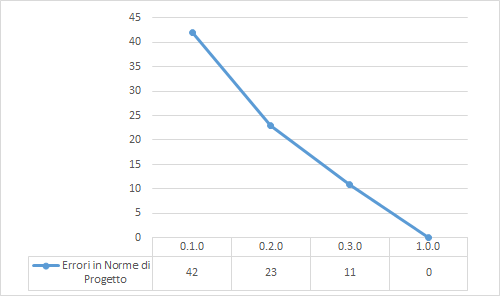
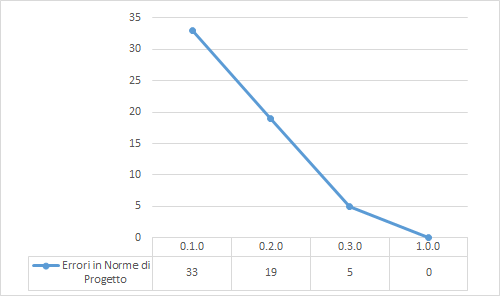
docs: verifica errori lessicali, modifica sezione 6 e 5

diff --git a/esterni/piano-di-qualifica/components/7-valutazioni-per-il-miglioramento.tex b/esterni/piano-di-qualifica/components/7-valutazioni-per-il-miglioramento.tex
@@ -10,7 +10,7 @@ I principali problemi riscontrati riguardano:
     \item \textbf{Gli strumenti di lavoro}: problemi relativi alla scelta e all'utilizzo degli strumenti.
 \end{itemize}
 La rilevazione di questi errori e le relative soluzioni sono state rese possibili grazie alla buona comunicazione all'interno del gruppo, migliorata durante il tempo di svolgimento della prima parte del progetto.
-Non essendoci una figura esterna al gruppo in grado di fornire una valutazione oggettiva e che possa gestirlo si è resa fondamentale l'autovalutazione di ciascun componente del gruppo e la totale liberta di esprimere le proprie difficoltà e di collaborare a trovare una soluzione comune per risolvere tali problematiche.
+Non essendoci una figura esterna al gruppo in grado di fornire una valutazione oggettiva e che possa gestirlo si è resa fondamentale l'autovalutazione di ciascun componente del gruppo e la totale libertà di esprimere le proprie difficoltà e di collaborare a trovare una soluzione comune per risolvere tali problematiche.
 Di seguito verranno trattati i problemi attualmente riscontrati, questa sezione verrà costantemente aggiornata nel caso si dovessero riscontrare ulteriori problematiche e attività di miglioramento necessarie per la maturazione del team.
 
 \subsection{Valutazioni sull’organizzazione}
@@ -19,9 +19,9 @@ Vengono definiti i problemi sull'organizzazione del team, punto fondamentale per
 
 \subsubsection{Incontri di gruppo}
 \label{sub:incontri_di_gruppo}
-Data la situazione creatasi le prime comunicazioni all'interno del gruppo sono risultate complicate e confusionarie data l'impossibilità di un incontro dal vivo con tutti i componenti del gruppo.
+Data la situazione creatasi le prime comunicazioni all'interno del gruppo sono risultate complicate e confusionarie causando l'impossibilità di un incontro dal vivo con tutti i componenti del gruppo.
 Se da una parte gli impegni di molti componenti si erano ridotti da un'altra il non poter avere un incontro dal vivo tra i componenti ha causato problematiche nell'organizzazione del gruppo, dato che era necessario trovare un nuovo metodo per comunicare e accordarsi riuscendo comunque ad accumunare gli impegni di tutti per poter riunire tutto il gruppo.
-Queste difficoltà sono emerse solo nel periodo iniziale dello svolgimento del lavoro e sono state risolte in breve tempo mediante l'utilizzo di diversi software di videochiama di gruppo per regolarizzare gli incontri interni.
+Queste difficoltà sono emerse solo nel periodo iniziale dello svolgimento del lavoro e sono state risolte in breve tempo mediante l'utilizzo di diversi software di videochiamata di gruppo per regolarizzare gli incontri interni.
 Gli strumenti utilizzati per risolvere queste problematiche sono stati scelti di comune accordo e la documentazione relativa ad essi è consultabile nelle \textsc{Norme di Progetto}.
 
 \subsubsection{Comunicazioni del gruppo}
@@ -31,8 +31,8 @@ Si è quindi deciso che oltre all'utilizzo di \glossario{Telegram} come strument
 
 \subsubsection{Comunicazioni con il proponente}
 \label{sub:comunicazione_con_il_proponente}
-L'ultima problematica venuto a crearsi a cause della situazione creatasi è stata la difficolta iniziale di come comunicare con il proponente per ottenere informazioni riguardo il Capitolato e per avere un dialogo costante con esso.
-Il problema è stato risolto in breve termine, decidendo di utilizzare le email per la comunicazione con il proponente e di utilizzare:
+L'ultima problematica venutasi a creare a causa della situazione creatasi è stata la difficolta iniziale di come comunicare con il proponente per ottenere informazioni riguardo il Capitolato e per avere un dialogo costante con esso.
+Il problema è stato risolto in breve tempo, decidendo di utilizzare le email per la comunicazione con il proponente e di utilizzare:
 \begin{itemize}
     \item \textbf{\glossario{Skype}}: per le comunicazioni in videochiamata più formali tra il gruppo e l'azienda;
     \item \textbf{\glossario{Microsoft Teams}}: per la formazione specifica dei membri del gruppo, da parte del Dr.Piccoli, sugli argomenti inerenti al capitolato.
@@ -44,7 +44,7 @@ Vengono definiti i problemi relativi alla suddivisione dei ruoli nel gruppo e su
 %%% da finire %%%
 \subsubsection{Verificatore}
 \label{sub:verificatore}
-Data l'inesperienza da parte dei Verificatori non tutti gli errori presenti nei documenti sono stati immediatamente individuati il che ha comportato la presenza di contraddizioni di contenuto e struttura rispetto tra i diversi documenti.
+Data l'inesperienza da parte dei Verificatori non tutti gli errori presenti nei documenti sono stati immediatamente individuati il che ha comportato la presenza di contraddizioni di contenuto e struttura tra i diversi documenti.
 Come soluzione il gruppo si è impegnato a dedicare una parte del tempo per analizzare meglio insieme i contenuti dei singoli documenti, in modo da renderli adeguati alle norme utilizzate e soprattutto evitando contraddizioni tra i diversi documenti.
 
 \subsection{Valutazioni sugli strumenti}
@@ -62,7 +62,7 @@ Per risolvere tale problema i membri del gruppo che avevano una maggiore conosce
 
 \subsubsection{Software di comunicazione con il proponente}
 \label{sub:latex}
-Come specificato nelle \textsc{Norme di Progetto} il software di comunicazione più usato con il proponente è Skype con il quale però sono stati riscontrati problemi nell'utilizzo sia da parte del team che da parte del proponente, oltra ad altri problemi vari come la pessima qualità streaming che per adesso il servizio offre.
+Come specificato nelle \textsc{Norme di Progetto} il software di comunicazione più usato con il proponente è Skype con il quale però sono stati riscontrati problemi nell'utilizzo sia da parte del team che da parte del proponente, oltre ad altri problemi vari come la pessima qualità streaming che per adesso il servizio offre.
 A questo problema non vi è una vera e propria soluzione soddisfacente, il gruppo e il proponente si impegnano a capire meglio come gestire le chiamate col software, mentre per quanto riguarda la parte relativa alla qualità dello streaming non vi è soluzione immediata, questo problema però non influenza più di tanto la comunicazione e la comprensione dei colloqui.
 
 \subsection{Valutazioni sulle verifiche}
@@ -77,7 +77,7 @@ Nelle verifiche e nelle revisioni finali di ogni documento i problemi maggiormen
     \item Errori riguardanti le norme;
     \item Periodi di frasi troppo verbosi.
 \end{itemize}
-Per trovare più facilmente e risolvere gli errori lessicali/,ortografici e sintattici il team ha adottato come strumento un'estensione per \glossario{Visual Studio Code} che aiutala la segnalazione di questi errori molto comuni.
+Per trovare più facilmente e risolvere gli errori lessicali,ortografici e sintattici il team ha adottato come strumento un'estensione per \glossario{Visual Studio Code} che aiuta la segnalazione di questi errori molto comuni.
 Gli errori riguardanti le norme sono stati commessi soprattutto nelle prime fasi di stesura dei documenti e sono stati subito corretti nella prima parte di verifica per ogni documento quando tutto il gruppo ha appreso meglio le norme interne imposte.
 Per i periodi troppo verbosi è stato utile l'utilizzo dell'Indice di Gulpease, ma soprattutto una buona comunicazione all'interno del gruppo per rimediare a frasi troppo lunghe.
 

diff --git a/esterni/piano-di-qualifica/components/3-qualita-di-prodotto.tex b/esterni/piano-di-qualifica/components/3-qualita-di-prodotto.tex
@@ -59,7 +59,7 @@ Il prodotto deve quindi fornire funzioni adeguate ed affidabili che siano in gra
     \item \textbf{QoPD001 Rispetto dell'implementazione funzionale - [Adeguatezza]}: realizzare lo stesso numero di funzioni ricavate dall'analisi iniziale;
         \begin{itemize}
             \item \textbf{Metrica di riferimento}: MoPD001;
-            \item \textbf{Valore accettabile}: discostamento, in negati o in positivo, di al più 2 funzioni;
+            \item \textbf{Valore accettabile}: discostamento, in negativo o in positivo, di al più 2 funzioni;
             \item \textbf{Valore desiderabile}: 0.
         \end{itemize}
     \item \textbf{QoPD002 Rispetto delle interfacce - [Interoperabilità]}: realizzare le interfacce del progetto come preventivato nell'analisi iniziale.
@@ -187,7 +187,7 @@ La portabilità è capacità del prodotto software di essere trasferito e implem
 \label{sub:obiettivi}
 \begin{itemize}
     \item \textbf{QoPD009 Supporto ai diversi browser - [Adattabilità]}: riuscire ad adattare l'applicazione web di addestramento ai diversi browser e alle diverse versioni di essi per eseguire tutte le funzioni del prodotto.
-        \\ In questo caso non ci saranno valori accettabili o desiderabili ma due diverse liste di browser da supportare, la lista minima accettabile con il numero minimo di browser da supportare e la lista minima desiderabile con i browser minimi da supportare per considera l'obiettivo raggiunto con la qualità desiderabile.
+        \\ In questo caso non ci saranno valori accettabili o desiderabili ma due diverse liste di browser da supportare, la lista minima accettabile con il numero minimo di browser da supportare e la lista minima desiderabile con i browser minimi da supportare per considerare l'obiettivo raggiunto con la qualità desiderabile.
         Ogni Browser viene identificato attraverso la dicitura: \textbf{(nome browser,versione browser)}.
         \begin{itemize}
             \item \textbf{Metrica di riferimento}: MoPD009;
@@ -248,7 +248,7 @@ Per ogni obiettivo viene indicato:
     Obiettivo &
       Metrica &
       Valore accettabile &
-      Valore desiderabili \\ \hline
+      Valore desiderabile \\ \hline
     \endhead
     %
     \begin{tabular}[c]{@{}c@{}}QoPD001 Rispetto\\ dell’implementazione funzionale - \\ {[}Adeguatezza{]}\end{tabular} &
@@ -276,7 +276,7 @@ Per ogni obiettivo viene indicato:
         Obiettivo &
           Metrica &
           Valore accettabile &
-          Valore desiderabili \\ \hline
+          Valore desiderabile \\ \hline
         \endhead
         %
         \begin{tabular}[c]{@{}c@{}}QoPD003 Test completi\\ sul codice -\\ {[}Maturità{]}\end{tabular} &
@@ -304,7 +304,7 @@ Per ogni obiettivo viene indicato:
         Obiettivo &
           Metrica &
           Valore accettabile &
-          Valore desiderabili \\ \hline
+          Valore desiderabile \\ \hline
         \endhead
         %
         \begin{tabular}[c]{@{}c@{}}QoPD005 Chiarezza\\ del comportamento -\\ {[}Comprensibilità{]}\end{tabular} &
@@ -333,7 +333,7 @@ Per ogni obiettivo viene indicato:
         Obiettivo &
           Metrica &
           Valore accettabile &
-          Valore desiderabili \\ \hline
+          Valore desiderabile \\ \hline
         \endhead
         %
         \begin{tabular}[c]{@{}c@{}}QoPD007 Velocità\\ di esecuzione -\\ {[}Comportamento temporale{]}\end{tabular} &
@@ -355,7 +355,7 @@ Per ogni obiettivo viene indicato:
         Obiettivo &
           Metrica &
           Valore accettabile &
-          Valore desiderabili \\ \hline
+          Valore desiderabile \\ \hline
         \endhead
         %
         \begin{tabular}[c]{@{}c@{}}QoPD08 Comprensione\\ del codice -\\ {[}Modifica{]}\end{tabular} &
@@ -363,7 +363,7 @@ Per ogni obiettivo viene indicato:
           10\% o più &
           20\% o più \\
         \multicolumn{1}{l}{Descrizione:} &
-          \multicolumn{3}{l}{\begin{tabular}[c]{@{}l@{}}Per una maggior chiarezza, comprensione e per facilitare eventuali modifiche nel\\ corso del ciclo di vita del prodotto, verranno inseriti dei commenti significati in\\ modo da comprendere cosa fa il codice commentato. Il numero di righe di commento\\ dovrà essere almeno il 10\% del codice totale.\end{tabular}} \\ \hline
+          \multicolumn{3}{l}{\begin{tabular}[c]{@{}l@{}}Per una maggior chiarezza, comprensione e per facilitare eventuali modifiche nel\\ corso del ciclo di vita del prodotto, verranno inseriti dei commenti significativi in\\ modo da comprendere cosa fa il codice commentato. Il numero di righe di commento\\ dovrà essere almeno il 10\% del codice totale.\end{tabular}} \\ \hline
         \caption{Obiettivi e metriche di qualità per la manutenibilità}
         \label{tab:my-table}\\
         \end{longtable}
@@ -377,7 +377,7 @@ Per ogni obiettivo viene indicato:
         Obiettivo &
           Metrica &
           Valore accettabile &
-          Valore desiderabili \\ \hline
+          Valore desiderabile \\ \hline
         \endhead
         %
         \begin{tabular}[c]{@{}c@{}}QoPD009 Supporto ai\\ diversi browser -\\ {[}Adattabilità{]}\end{tabular} &
@@ -400,7 +400,7 @@ Per ogni obiettivo viene indicato:
         Obiettivo &
           Metrica &
           Valore accettabile &
-          Valore desiderabili \\ \hline
+          Valore desiderabile \\ \hline
         \endhead
         %
         \begin{tabular}[c]{@{}c@{}}QoPD010 Leggibilità \\ del testo -\\ {[}Documentazione{]}\end{tabular} &
@@ -414,7 +414,7 @@ Per ogni obiettivo viene indicato:
           0 &
           0 \\
         \multicolumn{1}{l}{Descrizione:} &
-          \multicolumn{3}{l}{\begin{tabular}[c]{@{}l@{}}All'interno dei documenti non dovranno esserci errori \\ ortografici, di sintassi o di mancanza del rispetto delle \\  norme interne, ciò comporterebbe a una minor comprensione del\\ testo e difficoltà nel capire le parti essenziali dei documenti.\end{tabular}}\\ \hline
+          \multicolumn{3}{l}{\begin{tabular}[c]{@{}l@{}}All'interno dei documenti non dovranno esserci errori \\ ortografici, di sintassi o di mancanza del rispetto delle \\  norme interne, ciò comporterebbe una minor comprensione del\\ testo e difficoltà nel capire le parti essenziali dei documenti.\end{tabular}}\\ \hline
         \caption{Obiettivi e metriche di qualità per la documentazione}
         \label{tab:my-table}\\
         \end{longtable}

diff --git a/esterni/piano-di-qualifica/components/5-standard-di-qualita.tex b/esterni/piano-di-qualifica/components/5-standard-di-qualita.tex
@@ -24,7 +24,7 @@ Nelle seguenti sezioni verranno descritte le caratteristiche principali dei docu
 
 \subsubsection{Concetti iniziali}
 \label{sub:concetti_iniziali}
-Lo scopo del documento è fornite informazioni generali sulla valutazione del processo software e sul suo utilizzo in due contesti: miglioramento e determinazione della capacità del processo.
+Lo scopo del documento è fornire informazioni generali sulla valutazione del processo software e sul suo utilizzo in due contesti: miglioramento e determinazione della capacità del processo.
 La determinazione della capacità del software è importante perché generalmente motiva un'organizzazione a migliorare i processi.
 In questo documento vengono inoltre spiegati i vantaggi che l'uso di SPICE fornisce a un'organizzazione, i più importanti vengono elencati di seguito:
 
@@ -55,7 +55,7 @@ Vengono definiti vari processi utilizzabili in varie fasi della produzione, che 
     \item \textbf{Cliente-Fornitore}: sono processi che incidono direttamente sul cliente, supportano lo sviluppo e il passaggio del software al cliente, garantendone il corretto funzionamento e utilizzo;
     \item \textbf{Ingegneria}: sono processi che specificano, implementano o gestiscono direttamente un prodotto software e di sistema e la relativa documentazione;
     \item \textbf{Progetto}: sono processi che servono a coordinare e gestire le risorse di un progetto;
-    \item \textbf{Supporto}: sono processi che supportano le prestazione di altri processi;
+    \item \textbf{Supporto}: sono processi che supportano le prestazioni di altri processi;
     \item \textbf{Organizzazione}: sono processi che stabiliscono gli obiettivi di business dell'organizzazione che verranno raggiunti sviluppando processi, prodotti e risorse.
 \end{itemize}
 
@@ -141,7 +141,7 @@ Per quanto riguarda gli strumenti basati su software sono in numero limitato per
 
 \subsection{ISO/IEC 9126}%
 \label{sec:iso/iec_9126}
-ISO/EIC 9126 è uno standard che definisce in modello di qualità del software. Il modello propone un approccio alla qualità con lo scopo di migliorare l'organizzazione e i processi di una società di software, migliorando di conseguenza la qualità del prodotto.
+ISO/EIC 9126 è uno standard che definisce un modello di qualità del software. Il modello propone un approccio alla qualità con lo scopo di migliorare l'organizzazione e i processi di una società di software, migliorando di conseguenza la qualità del prodotto.
 Lo standard descrive un modello di qualità diviso in 3 parti:
 \begin{itemize}
     \item \textbf{Qualità interna}: si applica al software non eseguibile (come il codice sorgente) durante le fasi di progettazione e codifica.
@@ -180,7 +180,7 @@ Ovviamente per ciascun attributo delle tre qualità è misurabile e valutabile s
 
 \subsubsection{Descrizione degli attributi di Qualità interni ed esterni}%
 \label{sec:descrizione_attributi_interni_esterni}
-Verranno descritti brevemente ciascun attributo relativo alla Qualità interna e alla Qualità esterna, per ogni attributo verranno analizzate le sue sottocaratteristiche.
+Verrà descritto brevemente ciascun attributo relativo alla Qualità interna e alla Qualità esterna, per ogni attributo verranno analizzate le sue sottocaratteristiche.
 
 \begin{itemize}
     \item \textbf{Manutenibilità}: il software deve essere facilmente modificabile nel caso di correzioni, adattamenti e/o miglioramenti.
@@ -211,7 +211,7 @@ Verranno descritti brevemente ciascun attributo relativo alla Qualità interna e
         \item \textbf{Efficienza}: il software deve fornire le giuste prestazioni in base alla proprie risorse;
         \\Per le sue sottocaratteristiche sono previste:
         \begin{itemize}
-            \item \textbf{Comportamento rispetto al tempo}: il software deve adeguati tempi di elaborazione e risposta sotto determinate condizioni;
+            \item \textbf{Comportamento rispetto al tempo}: il software deve adeguare i tempi di elaborazione e risposta sotto determinate condizioni;
             \item \textbf{Utilizzo delle risorse}: il software deve utilizzare le risorse in modo adeguato;
             \item \textbf{Conformità}: il software deve aderire agli standard di efficienza richiesti.
         \end{itemize}
@@ -236,7 +236,7 @@ Verranno descritti brevemente ciascun attributo relativo alla Qualità interna e
 
 \subsubsection{Descrizione degli attributi di Qualità in uso}%
 \label{sec:descrizione_attributi_in_uso}
-Verranno descritti brevemente ciascun attributo relativo alla Qualità in suo.
+Verranno descritti brevemente ciascun attributo relativo alla Qualità in uso.
 
 Attributi
 \begin{itemize}

diff --git a/esterni/piano-di-qualifica/components/6-attivita-di-verifica.tex b/esterni/piano-di-qualifica/components/6-attivita-di-verifica.tex
@@ -7,8 +7,8 @@ I risultati possono coincidere o meno con i valori desiderati dal gruppo, nel ca
 \subsection{Periodo di Analisi}
 \label{sub:periodo_di_analisi}
 Durante questo periodo è stata sottoposta ad una precisa attività di verifica tutta la documentazione da presentare in ingresso in sede di Revisione dei Requisiti.
-I verificatori inizialmente hanno effettuato l'analisi utilizzando la tecnica di \glossario{Walkthrough} che hanno portato ad una serie di errori frequenti consultabili nella sezione §7 del documento.
-Successivamente dopo questa prima fasi, i verificatori mediante la tecnica dell'\glossario{Inspection} hanno analizzato i documenti in modo più mirato ricavando errori di diverso genere che non verranno trattati in quanto si trattano di piccolezze già facilmente risolte.
+I verificatori inizialmente hanno effettuato l'analisi utilizzando la tecnica di \glossario{Walkthrough} che ha portato ad una serie di errori frequenti consultabili nella sezione §7 del documento.
+Successivamente dopo questa prima fase, i verificatori mediante la tecnica dell'\glossario{Inspection} hanno analizzato i documenti in modo più mirato ricavando errori di diverso genere che non verranno trattati in quanto si trattano di piccolezze già facilmente risolte.
 
 \subsubsection{Esiti verifiche sui documenti}
 \label{sub:esiti_verifiche_sui_documenti}
@@ -116,7 +116,7 @@ Il \textsc{Piano di Progetto} ha presentato parecchi errori inizialmente così c
 
 \paragraph{Analisi dei Requisiti}
 \label{sub:analisi_dei_requisiti}
-Come per le \textsc{Norme di Progetto} essendo anche l'\textsc{Analisi dei Requisiti} un documento abbastanza corposo il numero di errori rilevati durante le verifiche è stato elevato ma non eccessivo, inoltre si nota che dopo nella fasi di verifica che ha portato alla creazione della versione 0.3.0 il numero di errori è drasticamente calato. 
+Come per le \textsc{Norme di Progetto} essendo anche l'\textsc{Analisi dei Requisiti} un documento abbastanza corposo il numero di errori rilevati durante le verifiche è stato elevato ma non eccessivo, inoltre si nota che nella fase di verifica che ha portato alla creazione della versione 0.3.0 il numero di errori è drasticamente calato. 
 
 \begin{table}[H]
     \centering
@@ -160,7 +160,7 @@ Come per i documenti, anche per queste metriche verrà fornito un esito che può
     \caption{Risultati metrica MoPR001}
     \label{tab:my-table}
     \end{table}
-\textbf{Nota}:
+\textbf{Nota}: il ritardo medio, nel rispetto delle scadenze interne al gruppo, è stato di 1.31 giorni che soddisfa la metrica in quanto non sono stati superati i 2 giorni di media.
 
 \begin{table}[H]
     \centering
@@ -196,7 +196,7 @@ Come per i documenti, anche per queste metriche verrà fornito un esito che può
     \caption{Risultati metrica MoPR003}
     \label{tab:my-table}
 \end{table}
-\textbf{Nota}:
+\textbf{Nota}: essendo il progetto ancora nelle fasi iniziali è prevedibile che il livello di maturità desiderato non sia ancora stato soddisfatto in quanto il raggiungimento dell'obiettivo è fissato per la fine del progetto.
 
 \begin{table}[H]
     \centering
@@ -214,7 +214,7 @@ Come per i documenti, anche per queste metriche verrà fornito un esito che può
     \caption{Risultati metrica MoPR004}
     \label{tab:my-table}
 \end{table}
-\textbf{Nota}:
+\textbf{Nota}: in ogni documento prodotto i ruoli sono identificati e rispettati.
 
 \begin{table}[H]
     \centering
@@ -250,7 +250,7 @@ Come per i documenti, anche per queste metriche verrà fornito un esito che può
     \caption{Risultati metrica MoPR011}
     \label{tab:my-table}
 \end{table}
-\textbf{Nota}:
+\textbf{Nota}: ogni documento è stato verificato almeno 3 volte, riuscendo a soddisfare l'obiettivo prefissato.
 
 \subsection{Conclusioni}%
 \label{sub:conclusioni}

diff --git a/esterni/piano-di-qualifica/components/2-qualita-di-processo.tex b/esterni/piano-di-qualifica/components/2-qualita-di-processo.tex
@@ -189,7 +189,7 @@ Il processo segue di pari passo il ciclo di vita di ogni documento, come spiegat
 \paragraph{Obiettivi}
 \label{sub:obiettivi_3}
 \begin{itemize}
-    \item \textbf{QoPR09 Rispetto delle fasi del ciclo di vita}: deve essere rispettato ogni fase del ciclo di vita del documento e le scadenze previste;
+    \item \textbf{QoPR09 Rispetto delle fasi del ciclo di vita}: deve essere rispettata ogni fase del ciclo di vita del documento e le scadenze previste;
         \begin{itemize}
             \item \textbf{Metrica di riferimento}: MoPR010;
             \item \textbf{Valore accettabile}: /; %definire meglio nelle norme
@@ -270,7 +270,7 @@ Per ogni obiettivo viene indicato:
     Obiettivo &
       Metrica &
       Valore accettabile &
-      Valore desiderabili \\ \hline
+      Valore desiderabile \\ \hline
     \endhead
     %
     \begin{tabular}[c]{@{}c@{}}QoPR001 Rispetto delle scadenze\\  della pianificazione\end{tabular} &
@@ -316,7 +316,7 @@ Per ogni obiettivo viene indicato:
         Obiettivo &
           Metrica &
           Valore accettabile &
-          Valore desiderabili \\ \hline
+          Valore desiderabile \\ \hline
         \endhead
         %
         \begin{tabular}[c]{@{}c@{}}QoPR006 Soddisfazione\\ dei requisiti obbligatori\end{tabular} &
@@ -350,7 +350,7 @@ Per ogni obiettivo viene indicato:
             Obiettivo &
               Metrica &
               Valore accettabile &
-              Valore desiderabili \\ \hline
+              Valore desiderabile \\ \hline
             \endhead
             %
             \begin{tabular}[c]{@{}c@{}}QoPR09  Rispetto delle fasi del \\ ciclo di vita\end{tabular} &
@@ -358,7 +358,7 @@ Per ogni obiettivo viene indicato:
               / &
               / \\
             \multicolumn{1}{l}{Descrizione:} &
-              \multicolumn{3}{l}{\begin{tabular}[c]{@{}l@{}}Ogni documento attraversa determinate dasi del ciclo di vita del prodotto. \\ I verificatori hanno il compito di verificare la corretta attuazione del\\ way of working nel documento in ogni sua fase.\end{tabular}} \\ \hline
+              \multicolumn{3}{l}{\begin{tabular}[c]{@{}l@{}}Ogni documento attraversa determinate fasi del ciclo di vita del prodotto. \\ I verificatori hanno il compito di verificare la corretta attuazione del\\ way of working nel documento in ogni sua fase.\end{tabular}} \\ \hline
             \begin{tabular}[c]{@{}c@{}}QoPR010 Rispetto nella redazione \\ dei documenti\end{tabular} &
               MoPR011 Analisi documenti &
               3 &
@@ -378,7 +378,7 @@ Per ogni obiettivo viene indicato:
             Obiettivo &
               Metrica &
               Valore accettabile &
-              Valore desiderabili \\ \hline
+              Valore desiderabile \\ \hline
             \endhead
             %
             \begin{tabular}[c]{@{}c@{}}QoPR011 Attuare una verifica \\ costante\end{tabular} &

diff --git a/esterni/piano-di-qualifica/components/1-introduzione.tex b/esterni/piano-di-qualifica/components/1-introduzione.tex
@@ -10,7 +10,7 @@ Per queste ragioni il documento sarà prodotto incrementalmente nel corso dello 
 \subsection{Scopo del documento}%
 \label{sub:scopo_del_documento}
 Lo scopo del documento è quello di illustrare formalmente tutte le modalità di verifica, validazione e le norme di qualità adottate, con il fine ultimo quello di preservare la qualità di prodotto e di processo.
-Per raggiungere l'obiettivo prefissato verranno svolte continuamente verifiche sulle attività e sui processi in corso in modo da identificare nel minor tempo possibili errori e/o anomalie in modo da rendere più facile gli interventi di manutenzione e riducendo al minimo lo spreco di risorse.
+Per raggiungere l'obiettivo prefissato verranno svolte continuamente verifiche sulle attività e sui processi in corso in modo da identificare nel minor tempo possibili errori e/o anomalie in modo da rendere più facili gli interventi di manutenzione e riducendo al minimo lo spreco di risorse.
 
 \subsection{Scopo del prodotto}%
 \label{sub:scopo_del_prodotto}

diff --git a/esterni/piano-di-qualifica/components/4-specifiche-dei-test.tex b/esterni/piano-di-qualifica/components/4-specifiche-dei-test.tex
@@ -14,7 +14,7 @@ Garantiscono che i requisiti richiesti identificati nel documento \textsc{Analis
 \subsection{Test di integrazione}
 \label{sub:test_di_integrazione}
 Garantiscono il corretto funzionamento di ogni componente del sistema quando viene integrata con le altre.
-Questi test verranno stabili durante il periodo di Progettazione Logica in quanto sarebbe improbabile riuscire a stabile con certezza dei test adeguati in questo momento.
+Questi test verranno stabiliti durante il periodo di Progettazione Logica in quanto sarebbe improbabile riuscire a stabilire con certezza dei test adeguati in questo momento.
 
 \subsection{Test di unità}
 \label{sub:test_di_unita}
